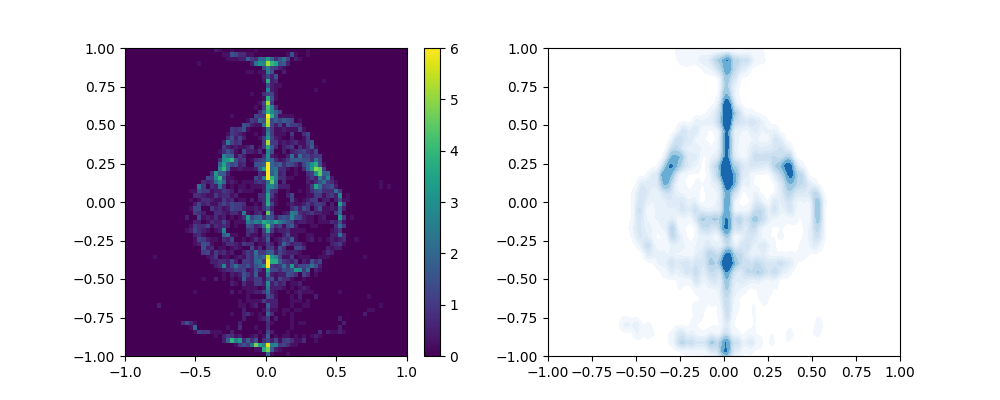
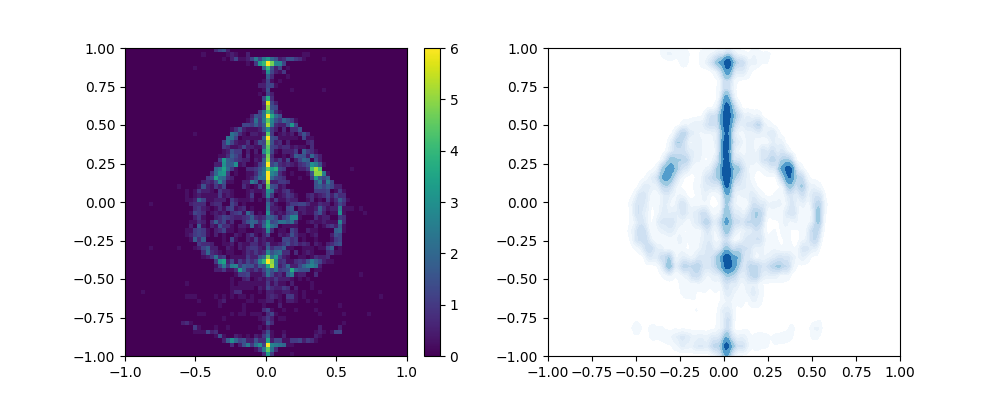
generic commit

diff --git a/scripts/transport/kdiffusion.py b/scripts/transport/kdiffusion.py
@@ -361,6 +361,13 @@ def comp_cond_kernel_transport(X_mu, Y_mu, Y_eta,  params, n_transports=50,
         Y_eta_test *= noise_shrink_c
         iters = model.iters
         target_eps *= noise_shrink_c
+
+        if n_transports - i < 20:
+            target_eps = 0
+        if n_transports - i < 5:
+            print('Almost done!!!')
+            n_iter = 700
+
     return Comp_transport_model(model_params)
 
 
@@ -647,7 +654,7 @@ def vl_exp(N=4000, Yd=18, normal=True, exp_name='kvl_exp', n_transports=100, N_p
 
 
 def run():
-    two_d_exp(ref_gen=sample_normal, target_gen=sample_elden_ring, N=5000, exp_name='elden_exp_alt4', n_transports=180,
+    two_d_exp(ref_gen=sample_normal, target_gen=sample_elden_ring, N=5000, exp_name='elden_exp_alt4', n_transports=170,
               slice_vals=[], plt_range=[[-1, 1], [-1, 1]], slice_range=[-1, 1], vmax=6, skip_idx=1, N_plot=5000)
 
 

diff --git a/scripts/transport/kvae_flow_alt.py b/scripts/transport/kvae_flow_alt.py
@@ -29,7 +29,7 @@ def format(n, n_digits = 5):
         return n
 
 
-def shuffle(tensor, actually_tho = False):
+def shuffle(tensor, actually_tho = True):
     if geq_1d(tensor).shape[0] <=1 and actually_tho:
         return tensor
     else:
@@ -454,9 +454,9 @@ def comp_cond_kernel_transport(X_mu, Y_mu, Y_eta, Y_eta_test, X_mu_test, Y_mu_te
         target_eps *= noise_shrink_c
         if n_transports - i < 20:
             target_eps = 0
-        if n_transports - i < 2:
+        if n_transports - i < 5:
             print('Almost done!!!')
-            n_iter = 1000
+            n_iter = 700
 
 
     return Comp_transport_model(model_params)
